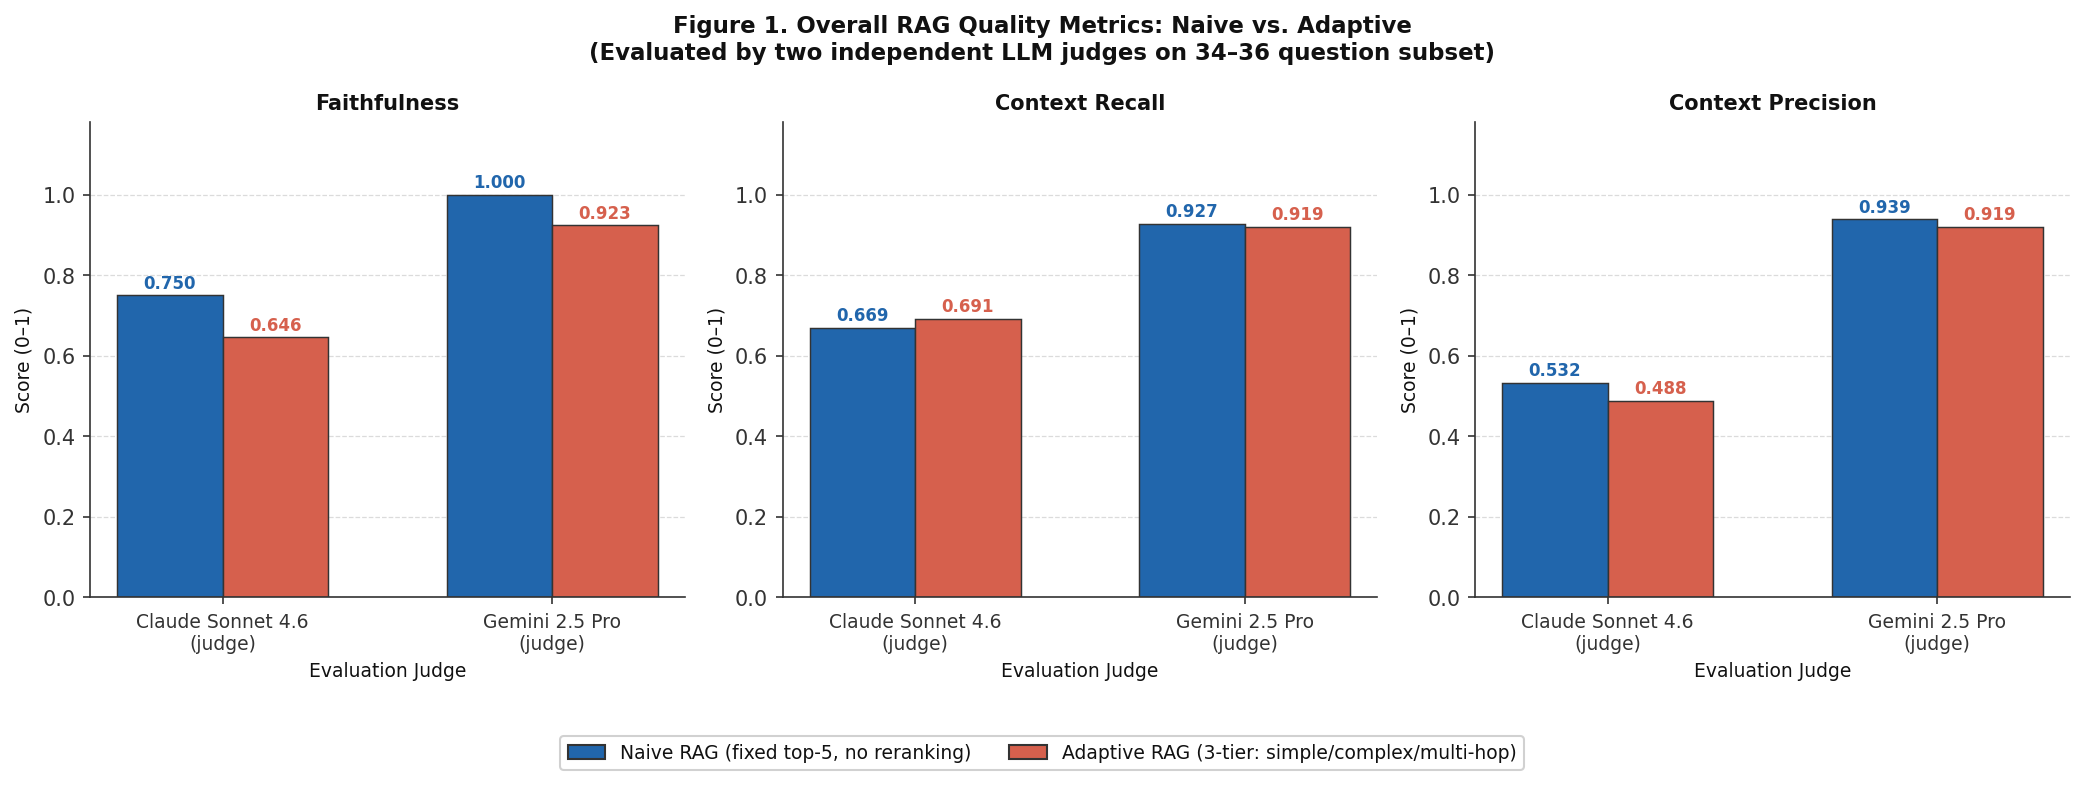
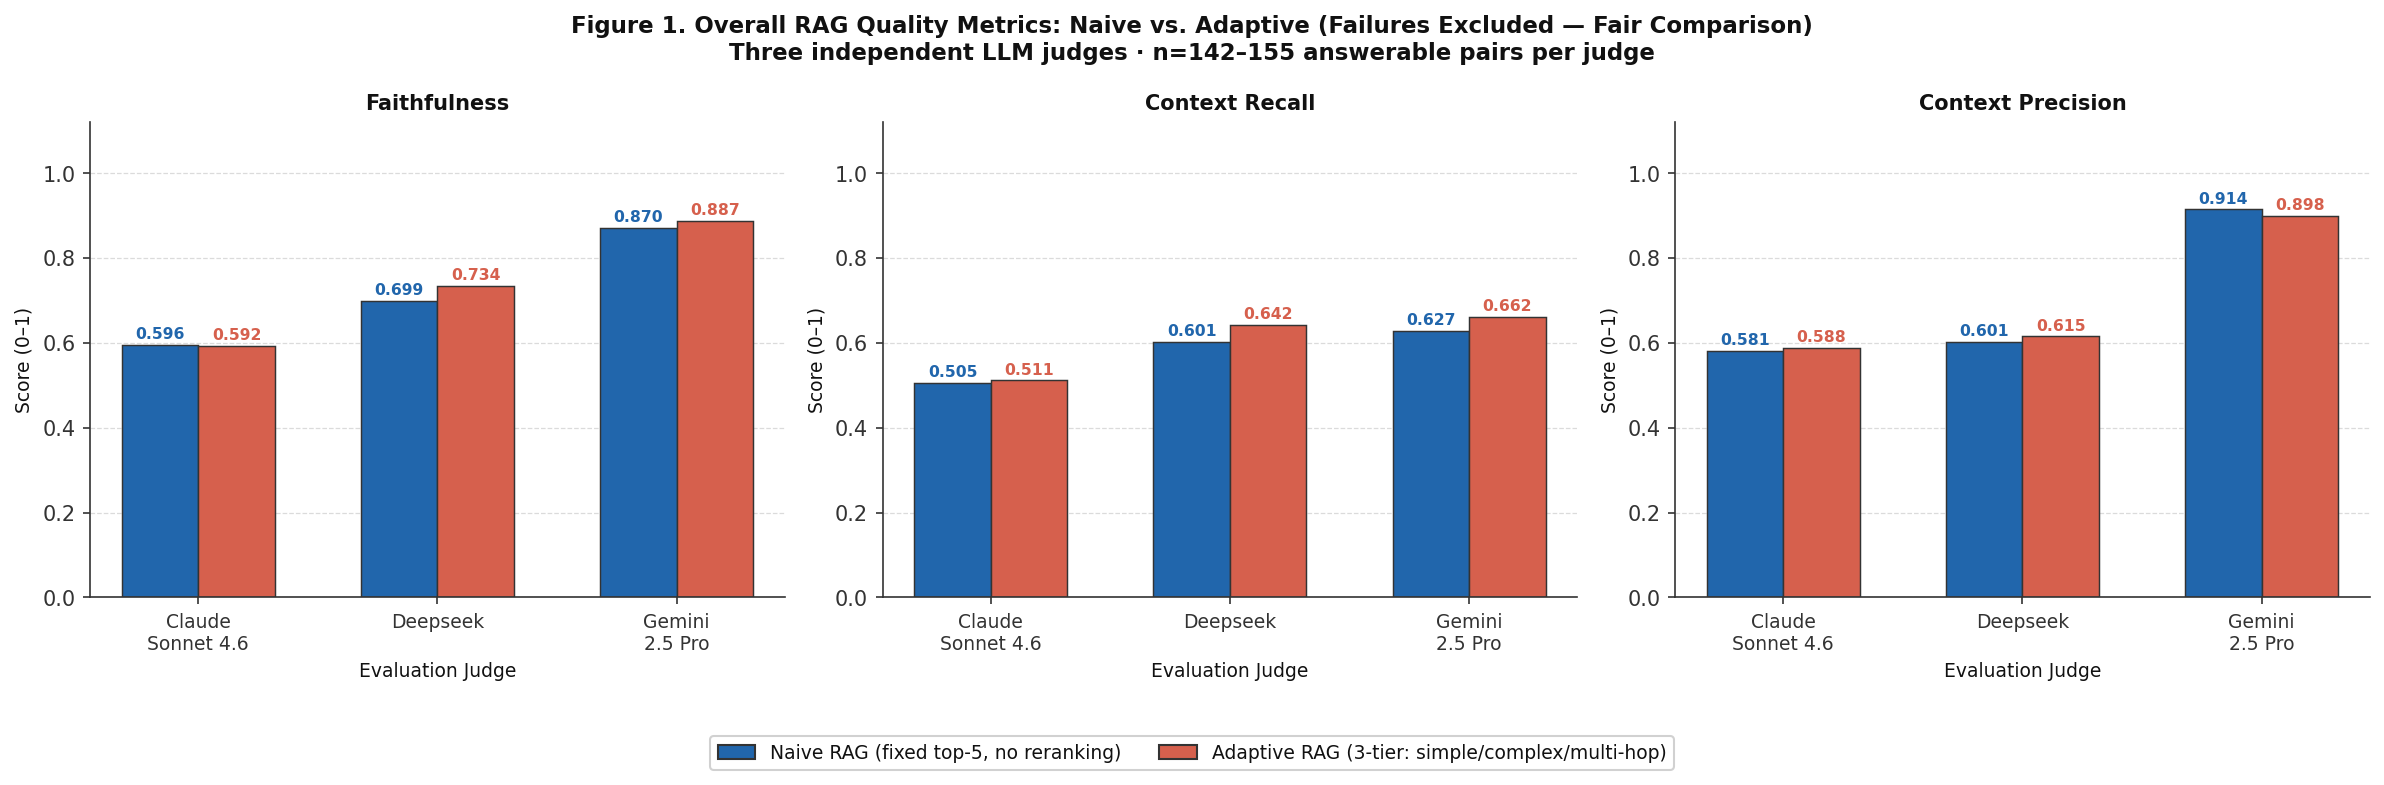
Increased the python client timeout, changed prompts, added new graphs and updated the readme

diff --git a/intelligence/server/grpc_server.py b/intelligence/server/grpc_server.py
@@ -118,7 +118,7 @@ class IntelligenceServiceServicer(rag_pb2_grpc.IntelligenceServiceServicer):
         namespace = request.namespace
         chunks = [chunk.text for chunk in request.retrieved_chunk]
 
-        response = self.llm_client.get_response(query, chunks)  # Currently using the gemini llm only because of higher rate limits
+        response = self.llm_client.get_response(query, chunks)
 
         return rag_pb2.GeneratedResponse(
             response = response["response"],
@@ -168,6 +168,7 @@ def serve():
     else:
         embedder = LocalEmbedder()
 
+    llm_provider = os.getenv("KEIRO_LLM_PROVIDER")
     chunk_size = int(os.getenv("KEIRO_CHUNK_SIZE", "1024"))
     overlap = int(os.getenv("KEIRO_OVERLAP", "150"))
 
@@ -175,43 +176,73 @@ def serve():
 
     pipeline = IngestionPipeline(embedder, chunker, store)
 
-    llm_provider = os.getenv("KEIRO_LLM_PROVIDER")
-    if llm_provider == "gemini":
-        model = os.getenv("KEIRO_GEMINI_MODEL_NAME")
-        client = genai.Client(api_key = os.getenv("GEMINI_API_KEY"))
-        llm_client = GeminiLLM(client = client, model_name = model)
+    if os.getenv("KEIRO_DEPLOYMENT") == "True":
+        if os.getenv("KEIRO_LARGE_GROQ_MODEL") != None and os.getenv("KEIRO_SMALL_GROQ_MODEL") != None:
+            large_model = os.getenv("KEIRO_LARGE_GROQ_MODEL")
+            small_model = os.getenv("KEIRO_SMALL_GROQ_MODEL")
+            client = OpenAI(api_key = os.getenv("GROQ_API_KEY"),
+                                        base_url = os.getenv("GROQ_BASE_URL"))
+            llm_client = OpenaiLLM(client = client, model_name = large_model)
 
-    elif llm_provider == "openai":
-        model = os.getenv("KEIRO_OPENAI_MODEL_NAME")
-        client = OpenAI(api_key = os.getenv("OPENAI_API_KEY"))
-        llm_client = OpenaiLLM(client = client, model_name = model)
+        else:
+            raise ValueError(f"Unsupported LLM provider: {llm_provider}. Must be 'gemini' or 'openai'")
 
-    elif llm_provider == "ollama":
-        model = os.getenv("KEIRO_OLLAMA_MODEL_NAME")
-        model_url = os.getenv("KEIRO_OLLAMA_URL")
-        client = OpenAI(
-            base_url = model_url
-        )
-        llm_client = OpenaiLLM(client = client, model_name = model)
+        simple_retriever = SimpleRetriever(store = store, embedder = embedder)
 
-    else:
-        raise ValueError(f"Unsupported LLM provider: {llm_provider}. Must be 'gemini' or 'openai'")
+        classifier = ClassifyQuery(client = client, model_name = large_model, model_provider = llm_provider)
 
-    simple_retriever = SimpleRetriever(store = store, embedder = embedder)
+        cross_encoder_model = CrossEncoder("cross-encoder/ms-marco-MiniLM-L6-v2")
+        cross_encoder = CrossEncoderReranker(cross_encoding_model = cross_encoder_model)
+        complex_retriever = ComplexRetriever(store = store, embedder = embedder, client = client, cross_encoder = cross_encoder, model_name = small_model, mmr_lambda = float(os.getenv("KEIRO_MMR_RETRIEVAL_LAMBDA")), model_provider = llm_provider)
 
-    classifier = ClassifyQuery(client = client, model_name = model, model_provider = llm_provider)
+        multi_hop_retriever = MultiHopRetriever(embedder = embedder, store = store, client = client, model_name = small_model, num_hops = 3, model_provider = llm_provider)
 
-    cross_encoder_model = CrossEncoder("cross-encoder/ms-marco-MiniLM-L6-v2")
-    cross_encoder = CrossEncoderReranker(cross_encoding_model = cross_encoder_model)
-    complex_retriever = ComplexRetriever(store = store, embedder = embedder, client = client, cross_encoder = cross_encoder, model_name = model, mmr_lambda = float(os.getenv("KEIRO_MMR_RETRIEVAL_LAMBDA")), model_provider = llm_provider)
+        rag_pb2_grpc.add_IntelligenceServiceServicer_to_server(IntelligenceServiceServicer(pipeline = pipeline, classifier = classifier, simple_retriever = simple_retriever, complex_retriever = complex_retriever, multi_hop_retriever = multi_hop_retriever, embedder = embedder, llm_client = llm_client), server)
+        server.add_insecure_port(f"{HOST}:{PORT}")
+        print(f"Starting the server at port {HOST}:{PORT}")
+        server.start()
+        server.wait_for_termination()
 
-    multi_hop_retriever = MultiHopRetriever(embedder = embedder, store = store, client = client, model_name = model, num_hops = 3, model_provider = llm_provider)
+    else :
+        if llm_provider == "gemini":
+            model = os.getenv("KEIRO_GEMINI_MODEL_NAME")
+            client = genai.Client(api_key = os.getenv("GEMINI_API_KEY"))
+            llm_client = GeminiLLM(client = client, model_name = model)
 
-    rag_pb2_grpc.add_IntelligenceServiceServicer_to_server(IntelligenceServiceServicer(pipeline = pipeline, classifier = classifier, simple_retriever = simple_retriever, complex_retriever = complex_retriever, multi_hop_retriever = multi_hop_retriever, embedder = embedder, llm_client = llm_client), server)
-    server.add_insecure_port(f"{HOST}:{PORT}")
-    print(f"Starting the server at port {HOST}:{PORT}")
-    server.start()
-    server.wait_for_termination()
+        elif llm_provider == "openai":
+            model = os.getenv("KEIRO_OPENAI_MODEL_NAME")
+            client = OpenAI(api_key = os.getenv("OPENAI_API_KEY"))
+            llm_client = OpenaiLLM(client = client, model_name = model)
+
+        elif llm_provider == "ollama":
+            model = os.getenv("KEIRO_OLLAMA_MODEL_NAME")
+            model_url = os.getenv("KEIRO_OLLAMA_URL")
+            client = OpenAI(
+                base_url = model_url
+            )
+            llm_client = OpenaiLLM(client = client, model_name = model)
+
+        elif os.getenv("KEIRO_LARGE_GROQ_MODEL") != None and os.getenv("KEIRO_SMALL_GROQ_MODEL") != None:
+            model = os.getenv("KEIRO_LARGE_GROQ_MODEL")
+
+        else:
+            raise ValueError(f"Unsupported LLM provider: {llm_provider}. Must be 'gemini' or 'openai'")
+
+        simple_retriever = SimpleRetriever(store = store, embedder = embedder)
+
+        classifier = ClassifyQuery(client = client, model_name = model, model_provider = llm_provider)
+
+        cross_encoder_model = CrossEncoder("cross-encoder/ms-marco-MiniLM-L6-v2")
+        cross_encoder = CrossEncoderReranker(cross_encoding_model = cross_encoder_model)
+        complex_retriever = ComplexRetriever(store = store, embedder = embedder, client = client, cross_encoder = cross_encoder, model_name = model, mmr_lambda = float(os.getenv("KEIRO_MMR_RETRIEVAL_LAMBDA")), model_provider = llm_provider)
+
+        multi_hop_retriever = MultiHopRetriever(embedder = embedder, store = store, client = client, model_name = model, num_hops = 3, model_provider = llm_provider)
+
+        rag_pb2_grpc.add_IntelligenceServiceServicer_to_server(IntelligenceServiceServicer(pipeline = pipeline, classifier = classifier, simple_retriever = simple_retriever, complex_retriever = complex_retriever, multi_hop_retriever = multi_hop_retriever, embedder = embedder, llm_client = llm_client), server)
+        server.add_insecure_port(f"{HOST}:{PORT}")
+        print(f"Starting the server at port {HOST}:{PORT}")
+        server.start()
+        server.wait_for_termination()
 
 if __name__ == "__main__":
     serve()

diff --git a/gateway/intelligence/python_client.go b/gateway/intelligence/python_client.go
@@ -30,7 +30,7 @@ func ConnectToPython(envVar *config.Config) (pb.IntelligenceServiceClient, *grpc
 }
 
 func ClassifyQuery(client pb.IntelligenceServiceClient, query string, namespace string) (*pb.ClassifyQueryResponse, error) {
-	ctx, cancel := context.WithTimeout(context.Background(), time.Second*10)
+	ctx, cancel := context.WithTimeout(context.Background(), time.Second*30)
 	defer cancel()
 
 	req := &pb.ClassifyQueryRequest{
@@ -47,7 +47,7 @@ func ClassifyQuery(client pb.IntelligenceServiceClient, query string, namespace 
 }
 
 func ComputeEmbeddings(client pb.IntelligenceServiceClient, query string) ([]float32, error) {
-	ctx, cancel := context.WithTimeout(context.Background(), time.Second*10)
+	ctx, cancel := context.WithTimeout(context.Background(), time.Second*30)
 	defer cancel()
 
 	req := &pb.ComputeEmbeddingRequest{
@@ -64,7 +64,7 @@ func ComputeEmbeddings(client pb.IntelligenceServiceClient, query string) ([]flo
 }
 
 func ExecuteRetrieval(client pb.IntelligenceServiceClient, query string, config *pb.RetrievalConfig, namespace string) (*pb.ExecuteRetrievalResponse, error) {
-	ctx, cancel := context.WithTimeout(context.Background(), time.Second*10)
+	ctx, cancel := context.WithTimeout(context.Background(), time.Second*30)
 	defer cancel()
 
 	req := &pb.ExecuteRetrievalRequest{
@@ -83,7 +83,7 @@ func ExecuteRetrieval(client pb.IntelligenceServiceClient, query string, config 
 }
 
 func GenerateResponse(client pb.IntelligenceServiceClient, namespace string, query string, retrieved_chunk []*pb.RetrievedChunk) (*pb.GeneratedResponse, error) {
-	ctx, cancel := context.WithTimeout(context.Background(), time.Second*40)
+	ctx, cancel := context.WithTimeout(context.Background(), time.Second*90)
 	defer cancel()
 
 	req := &pb.GenerateResponseRequest{
@@ -102,7 +102,7 @@ func GenerateResponse(client pb.IntelligenceServiceClient, namespace string, que
 }
 
 func IngestDocument(client pb.IntelligenceServiceClient, mime_type string, chunking_strat int32, namespace string, filename string, content []byte) (*pb.IngestDocumentResponse, error) {
-	ctx, cancel := context.WithTimeout(context.Background(), time.Second*10)
+	ctx, cancel := context.WithTimeout(context.Background(), time.Second*60)
 	defer cancel()
 
 	req := &pb.IngestDocumentRequest{

diff --git a/README.md b/README.md
@@ -7,10 +7,11 @@
 ![ChromaDB](https://img.shields.io/badge/ChromaDB-vector%20store-FF6B35?style=flat)
 ![Cache](https://img.shields.io/badge/Cache-hashicorp%20LRU-00ADD8?style=flat&logo=go&logoColor=white)
 ![License](https://img.shields.io/badge/license-MIT-22c55e?style=flat)
+[![Ask DeepWiki](https://deepwiki.com/badge.svg)](https://deepwiki.com/ManasRanjanJena253/Keiro)
 
 > *From Japanese 経路 (keiro) — path, route.*
 
-Keiro is a self-hostable adaptive RAG infrastructure that routes queries through three retrieval tiers based on complexity, reducing token usage on simple queries by up to 49% while improving context recall on multi-hop reasoning tasks. A single `docker compose up` starts the full stack with zero additional configuration beyond environment variables.
+Keiro is a self-hostable adaptive RAG infrastructure that routes queries through three retrieval tiers based on complexity, improving context recall on complex and multi-hop queries — validated across three independent LLM judges on 180 questions from the EU AI Act. A single `docker compose up` starts the full stack with zero additional configuration beyond environment variables.
 
 ---
 
@@ -135,7 +136,7 @@ Rate limiting is a `sync.Map` of namespace to `golang.org/x/time/rate` token buc
 
 ## Benchmark Results
 
-Evaluated on 50 questions across three complexity tiers derived from the EU AI Act (EUR-Lex 2024/1689). Two independent LLM judges scored each response on faithfulness, context recall, and context precision against reference answers generated from the full document text.
+Evaluated on 180 questions across three complexity tiers (n=76/68/36 per tier) derived from the EU AI Act (EUR-Lex 2024/1689). Three independent LLM judges (Claude Sonnet 4.6, Deepseek, Gemini 2.5 Pro) scored each response on faithfulness, context recall, and context precision against reference answers generated from the full document text. Failures (no answer returned) are excluded from quality metrics for a fair comparison.
 
 **Baseline:** Naive RAG — fixed top-5 retrieval, no classification, no reranking, no caching.
 
@@ -143,53 +144,75 @@ Evaluated on 50 questions across three complexity tiers derived from the EU AI A
 
 ![Figure 1: Overall metric comparison](benchmarks/results/fig1_overall_metrics.png)
 
-*Naive RAG (blue) vs. Adaptive RAG (red) scored by two independent judges. Adaptive RAG shows improved context recall (+2.2pp overall, +9.4pp on multi-hop queries per Claude judge).*
+*Naive RAG (blue) vs. Adaptive RAG (red) scored by three independent LLM judges (n=142–155 answerable pairs per judge, failures excluded). Deepseek and Gemini 2.5 Pro judges show consistent context recall gains (+4.1pp and +3.5pp respectively); Claude Sonnet 4.6 shows marginal improvement (+0.6pp). Faithfulness improves under Deepseek (+3.5pp) and Gemini (+1.7pp) judges.*
 
-### Per-tier breakdown — Claude Sonnet 4.6 judge
+### Per-tier breakdown — Deepseek judge
 
-![Figure 2: Per-tier metrics, Claude judge](benchmarks/results/fig2_per_tier_claude_judge.png)
+![Figure 2: Per-tier metrics, Deepseek judge](benchmarks/results/fig2_per_tier_deepseek_judge.png)
+
+*Adaptive RAG improves context recall on complex (+5.4pp) and multi-hop (+6.1pp) tiers. Faithfulness gains are most pronounced on multi-hop (+6.1pp), consistent with iterative retrieval assembling a richer evidence chain.*
 
 ### Per-tier breakdown — Gemini 2.5 Pro judge
 
 ![Figure 3: Per-tier metrics, Gemini judge](benchmarks/results/fig3_per_tier_gemini_judge.png)
 
-*Gemini scores higher overall due to known leniency differences between frontier judges. Both judges agree on the directional finding: context recall improves on multi-hop queries, faithfulness trades off slightly on complex queries routed to multi-hop retrieval.*
+*Gemini 2.5 Pro scores higher in absolute terms due to known leniency differences between frontier judges. Both Deepseek and Gemini agree on the directional finding: context recall improves on complex (+4.9pp) and multi-hop (+4.0pp) queries. A precision cost is visible on the simple tier (−2.9pp), attributable to classifier over-routing simple queries to multi-hop retrieval.*
+
+### Retrieval failure rates
+
+![Figure 5: Retrieval failure rate by tier](benchmarks/results/fig5_failure_rates.png)
+
+*Adaptive RAG has a higher failure rate on simple queries (25% vs. 17%) due to the classifier over-routing simple queries to multi-hop retrieval, which is more likely to return no answer. On complex and multi-hop tiers, failure rates are comparable or better (complex: 10% vs. 12%; multi-hop: 8% vs. 8%).*
 
 ### Score delta heatmap (Adaptive − Naive)
 
-![Figure 5: Delta heatmap](benchmarks/results/fig5_delta_heatmap.png)
+![Figure 6: Delta heatmap](benchmarks/results/fig6_delta_heatmap.png)
 
-*Green = Adaptive RAG better. Red = Naive RAG better. Context recall is the consistent win. The faithfulness cost concentrates in the complex tier where classifier over-routing to multi-hop is the known limitation.*
+*Green = Adaptive RAG better. Red = Naive RAG better. Deepseek shows the strongest gains — up to +6.1pp on multi-hop faithfulness and recall. Gemini shows consistent recall improvements across all tiers but a precision cost on the simple tier (−2.9pp), corroborating the over-routing failure mode. Claude Sonnet 4.6 is largely flat, with context recall at +0.0pp on complex and near-zero on simple.*
 
 ### Token efficiency
 
 ![Figure 4: Token usage by tier](benchmarks/results/fig4_token_usage.png)
 
-*Simple queries use 744 tokens on average versus 1,448 for Naive RAG — a 49% reduction. Complex and multi-hop queries intentionally use more tokens because they retrieve more context. Compute is allocated proportionally to query difficulty.*
+*Adaptive RAG uses more tokens across all tiers due to classifier overhead and richer retrieval: +17% on simple (1,568 → 1,842), +39% on complex (1,506 → 2,096), and +27% on multi-hop (1,510 → 1,920). Token cost is the measurable tradeoff for improved context recall on complex and multi-hop queries.*
 
 ### Classifier routing accuracy
 
-![Figure 6: Routing accuracy](benchmarks/results/fig6_routing_accuracy.png)
+![Figure 7: Routing accuracy](benchmarks/results/fig7_routing_accuracy.png)
 
-*Simple queries are classified with perfect accuracy (100%). Complex queries
-are correctly routed 60% of the time, with the remaining 40% over-routed to
-multi-hop. Multi-hop queries are the hardest to classify reliably (10%), as
-chained reasoning questions sit close to complex synthesis questions in
-semantic space and are frequently conflated. Over-routing to complex is the
-safer failure mode — it over-retrieves with reranking rather than
-under-retrieves.*
+*Simple queries are classified with perfect accuracy (100%). Complex queries are correctly routed 60% of the time, with the remaining 40% likely over-routed to multi-hop. Multi-hop queries are the hardest to classify reliably (1/10), as chained reasoning questions sit close to complex synthesis questions in semantic space and are frequently conflated. Over-routing to multi-hop is the dangerous failure mode — as confirmed by Fig 5, it is the primary driver of the elevated 25% failure rate on the simple tier.*
+
+### Semantic cache threshold analysis
+
+![Figure 8: Cache threshold sweep](benchmarks/results/fig8_cache_threshold_sweep.png)
+
+*At the default threshold of 0.92, 1 out of 52 unique queries resulted in a cache hit (1.9%), confirming the benchmark dataset is near-duplicate-free. The sweep illustrates that lowering the threshold to ~0.85 would substantially increase cache hit rate on near-paraphrase queries, at the cost of occasionally serving semantically adjacent but non-identical answers. The 0.92 default is appropriate for high-precision deployments.*
 
 ### Summary
 
-| Finding | Claude judge | Gemini judge |
-|---------|-------------|--------------|
-| Context recall Δ (overall) | +2.2pp | −0.8pp |
-| Context recall Δ (multi-hop) | **+9.4pp** | **+6.7pp** |
-| Faithfulness Δ (overall) | −10.4pp | −7.7pp |
-| Token reduction (simple tier) | **−49%** | **−49%** |
-| Classifier accuracy (simple)    | 100%  | 100%  |
-| Classifier accuracy (complex)   | 60%   | 60%   |
-| Classifier accuracy (multi-hop) | 10%   | 10%   |
+**Quality metrics by judge (failures excluded)**
+
+| Finding | Claude Sonnet 4.6 | Deepseek | Gemini 2.5 Pro |
+|---------|-------------------|----------|----------------|
+| Context recall Δ (overall) | +0.6pp | **+4.1pp** | **+3.5pp** |
+| Context recall Δ (multi-hop) | +2.0pp | **+6.1pp** | **+4.0pp** |
+| Context recall Δ (complex) | +0.0pp | **+5.4pp** | **+4.9pp** |
+| Faithfulness Δ (overall) | −0.4pp | **+3.5pp** | **+1.7pp** |
+
+**System-level metrics (judge-independent)**
+
+| Finding | Value |
+|---------|-------|
+| Token overhead — simple tier | +17% (1,568 → 1,842) |
+| Token overhead — complex tier | +39% (1,506 → 2,096) |
+| Token overhead — multi-hop tier | +27% (1,510 → 1,920) |
+| Classifier accuracy — simple | 100% (20/20) |
+| Classifier accuracy — complex | 60% (12/20) |
+| Classifier accuracy — multi-hop | 10% (1/10) |
+| Failure rate Δ — simple tier | +8pp (17% → 25%) |
+| Failure rate Δ — complex tier | −2pp (12% → 10%) |
+| Failure rate Δ — multi-hop tier | 0pp (8% → 8%) |
+| Cache hit rate (threshold 0.92) | 1.9% (1/52) |
 
 ---
 
